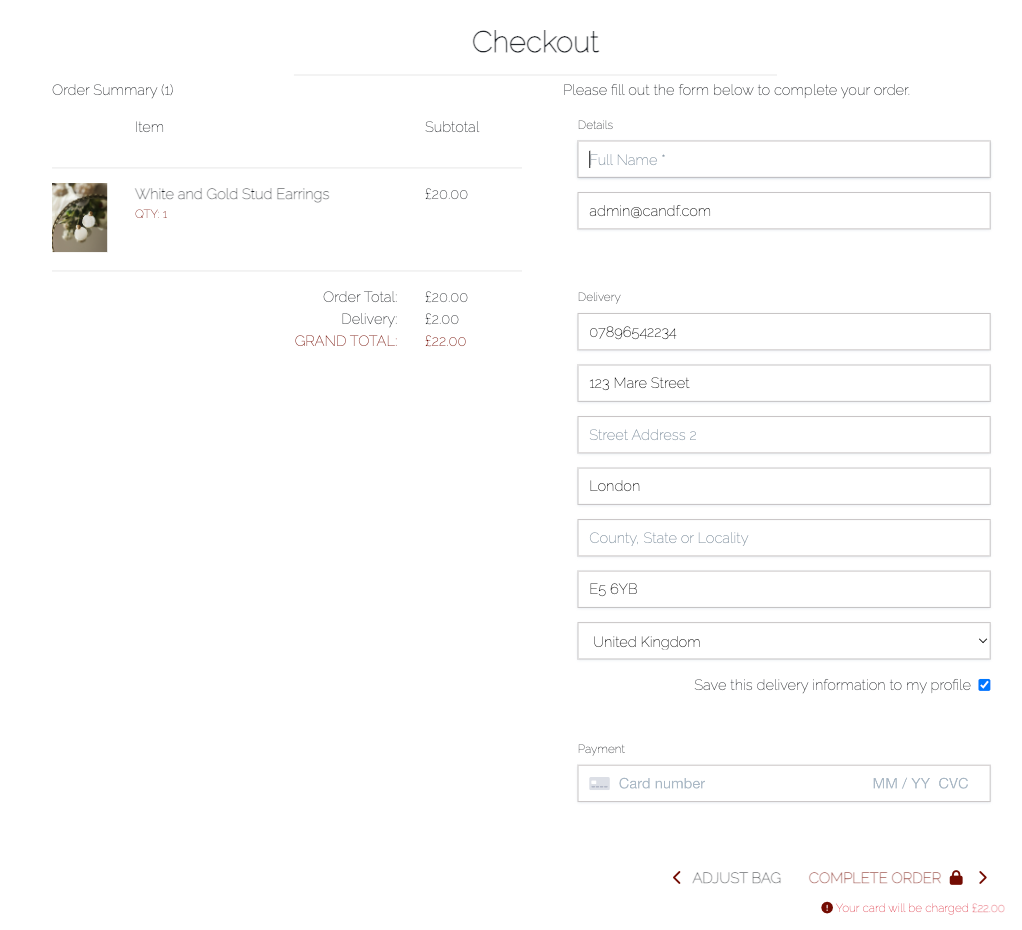
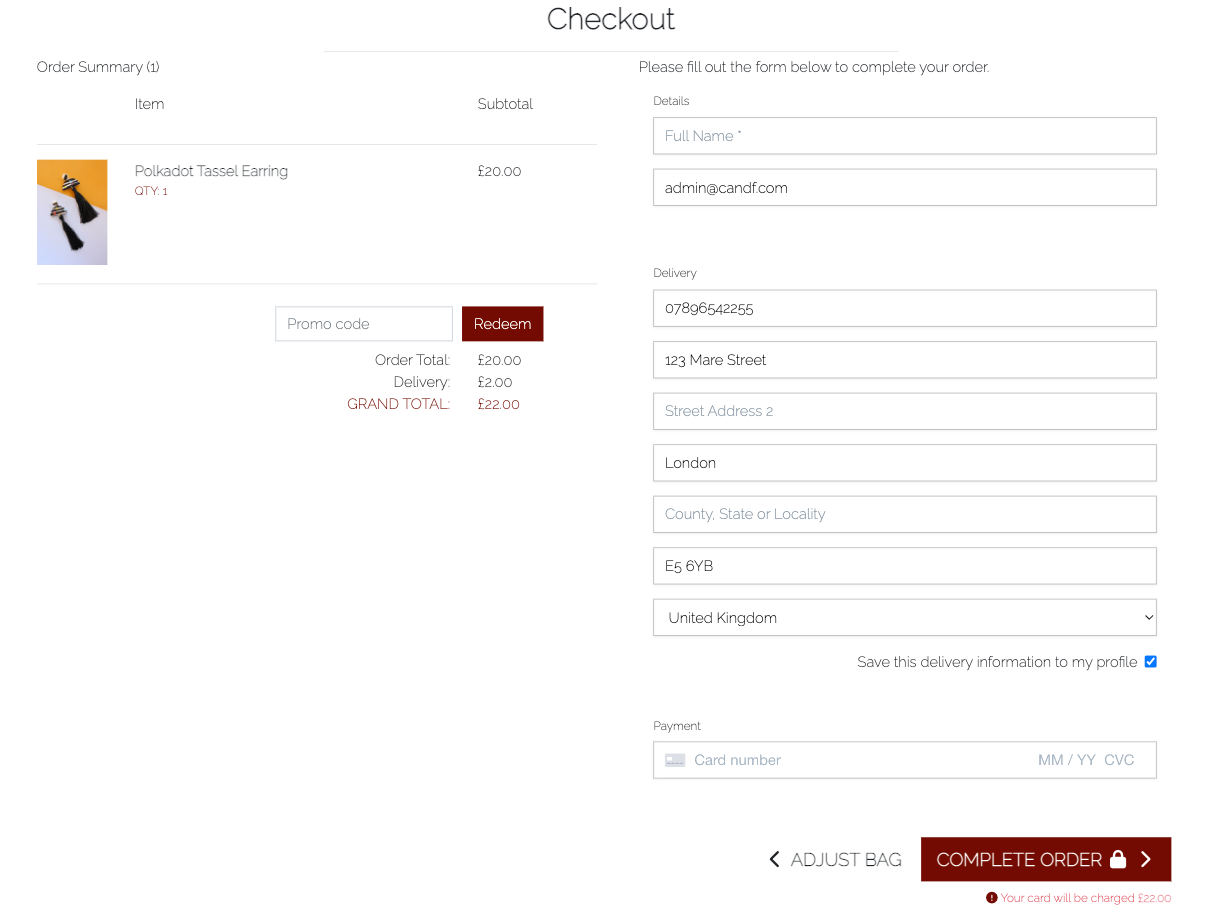
add coupon features to README

diff --git a/README.md b/README.md
@@ -360,6 +360,16 @@ Not logged in and without reviews:
 
 <img src="assets/readme_images/checkout.png" width="50%">
 
+## Add Coupon Form
+
+<img src="assets/readme_images/add-coupon.png" width="50%">
+
+
+## Coupon Added / Remove Coupon
+
+<img src="assets/readme_images/added-coupon.png" width="50%">
+
+
 ## Checkout Success
 
 <img src="assets/readme_images/checkout-success.png" width="50%">
@@ -474,7 +484,7 @@ The following features can be implemented to enhance the project:
 ## **Manual Testing by User Story**
 ### **Superuser / Admin**
 ### 1. As a Site Owner, I want to be able to add a product so that I can add more items to my store.
-- Products can be added both via the project management page found by clicking on 'My Account' or vis the Admin Panel. Both types of product adding were tested and the products were both visbale in the model and on the Products Page.
+- Products can be added both via the project management page found by clicking on 'My Account' or vis the Admin Panel. Both types of product adding were tested and the products were both visable in the model and on the Products Page.
 
 The following was also checked and found to be working as expected when the product was added:
 
@@ -913,7 +923,7 @@ Development is set in gitpod's environment variables as True.
 
 10. We must then install Gunicorn, which will act as our webserver and freeze that into our requirements file.
 
-11. Nextm I created a Procfile to tell Heroku to create a web dyno that will run Gunicorn and serve our Django app.
+11. Next, I created a Procfile to tell Heroku to create a web dyno that will run Gunicorn and serve our Django app.
 
 Within this file add the following:
 
